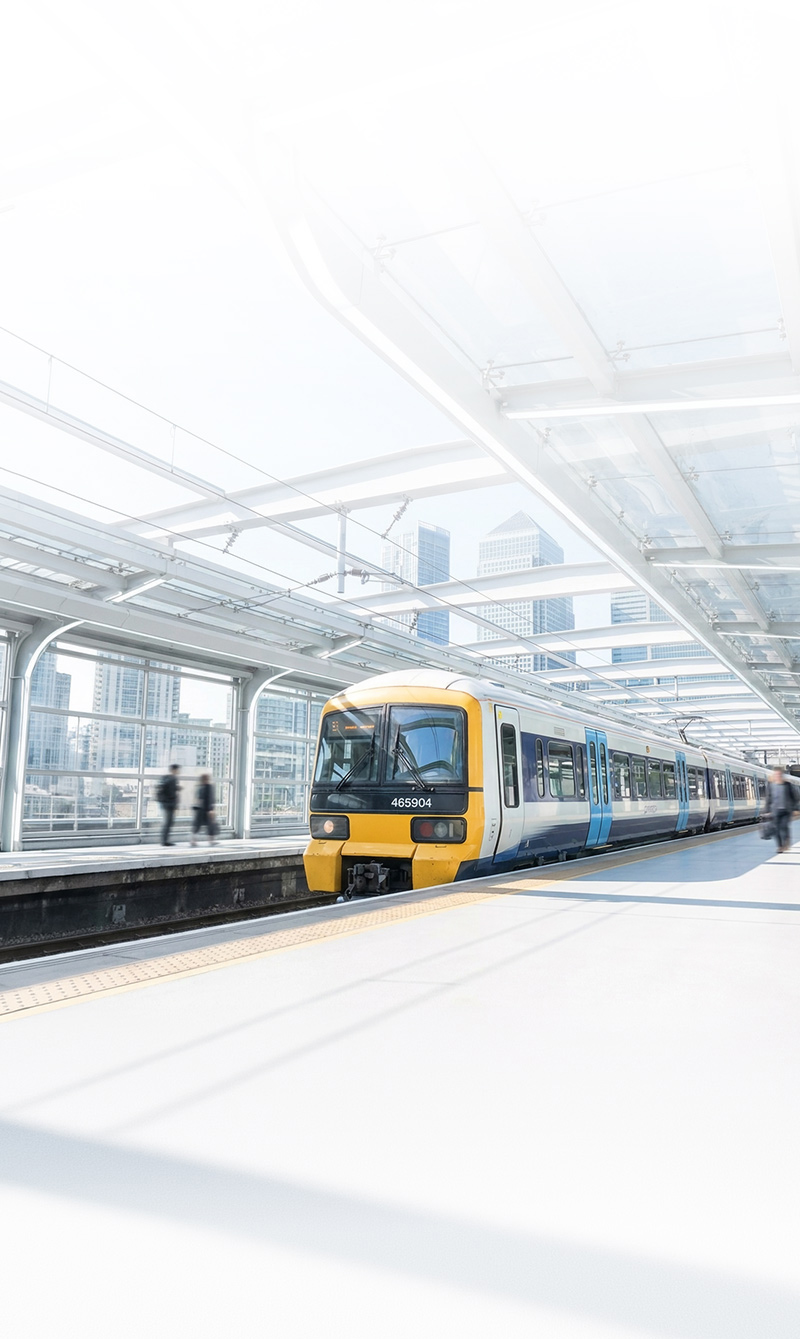
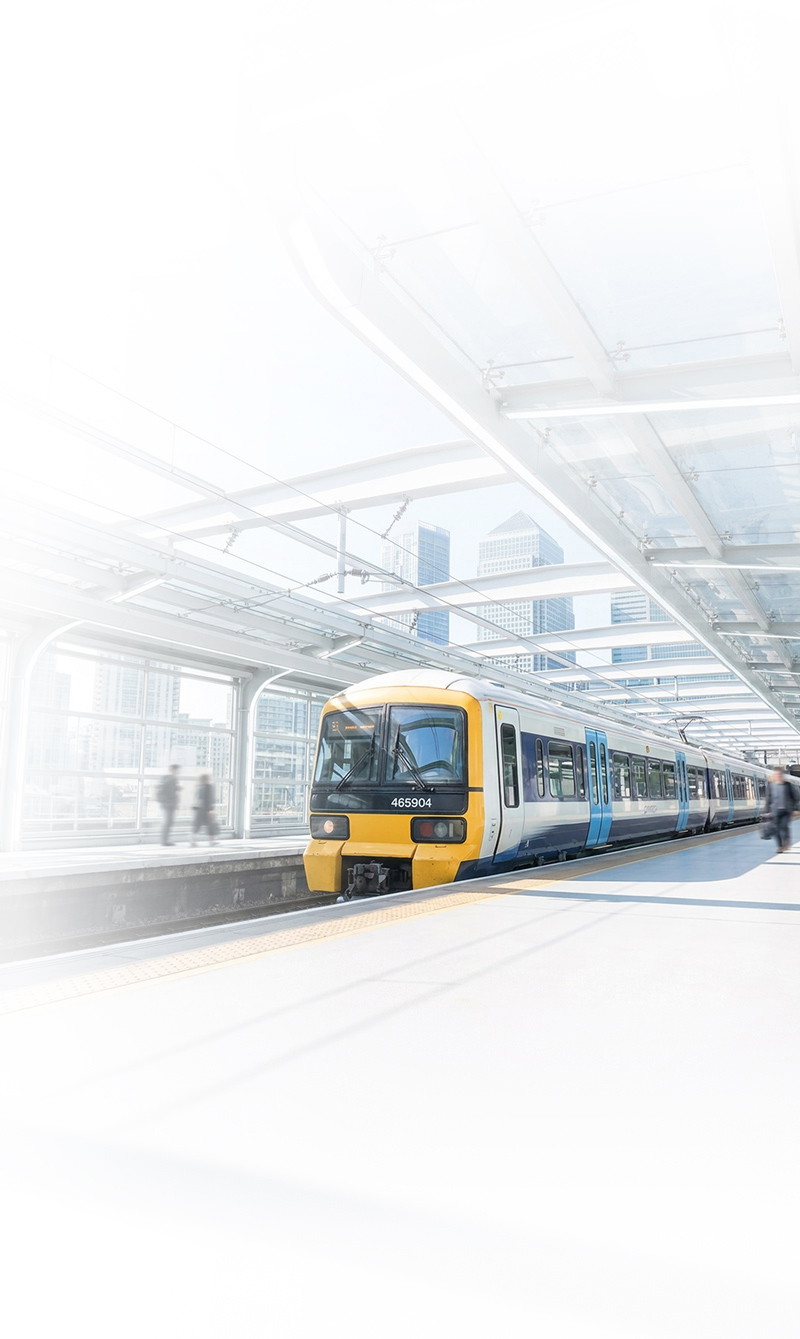
hero images

Changed region(s): [[0.0, 0.3674, 0.4688, 0.7655], [0.0, 0.8267, 0.3125, 0.9186]]

diff --git a/CLAUDE.md b/CLAUDE.md
@@ -1,0 +1,27 @@
+# Project notes for Claude
+
+This site (srhq.uk) is hosted on Vercel, deployed automatically from the
+`main` branch on GitHub.
+
+## vercel.json is high-risk
+
+A single invalid field in `vercel.json` causes Vercel to silently reject
+EVERY future deployment with no visible error in the dashboard — git pushes
+just stop producing new deployments. This already happened once (commit
+`64faf76`) and cost half a day to diagnose.
+
+If you ever edit `vercel.json`:
+
+- `redirects[].source` (and `rewrites`/`headers` `source`) must be a PATH
+  starting with `/` — never a full URL with `https://` or a hostname.
+- To redirect/match based on domain (e.g. `www.srhq.uk` vs `srhq.uk`), use
+  `"has": [{ "type": "host", "value": "www.srhq.uk" }]` alongside a path
+  `source`, not the hostname in `source` itself.
+- After committing a `vercel.json` change and the user pushes it, ASK the
+  user to check the Vercel "Deployments" tab and confirm a new deployment
+  appears and reaches "Ready" — do not assume success just because the push
+  worked.
+- If a previously-working deploy pipeline suddenly stops producing any new
+  deployments (including via Deploy Hooks returning 201/PENDING with
+  nothing showing up), check `vercel.json` for validation errors FIRST,
+  before investigating account/billing/Git-integration settings.